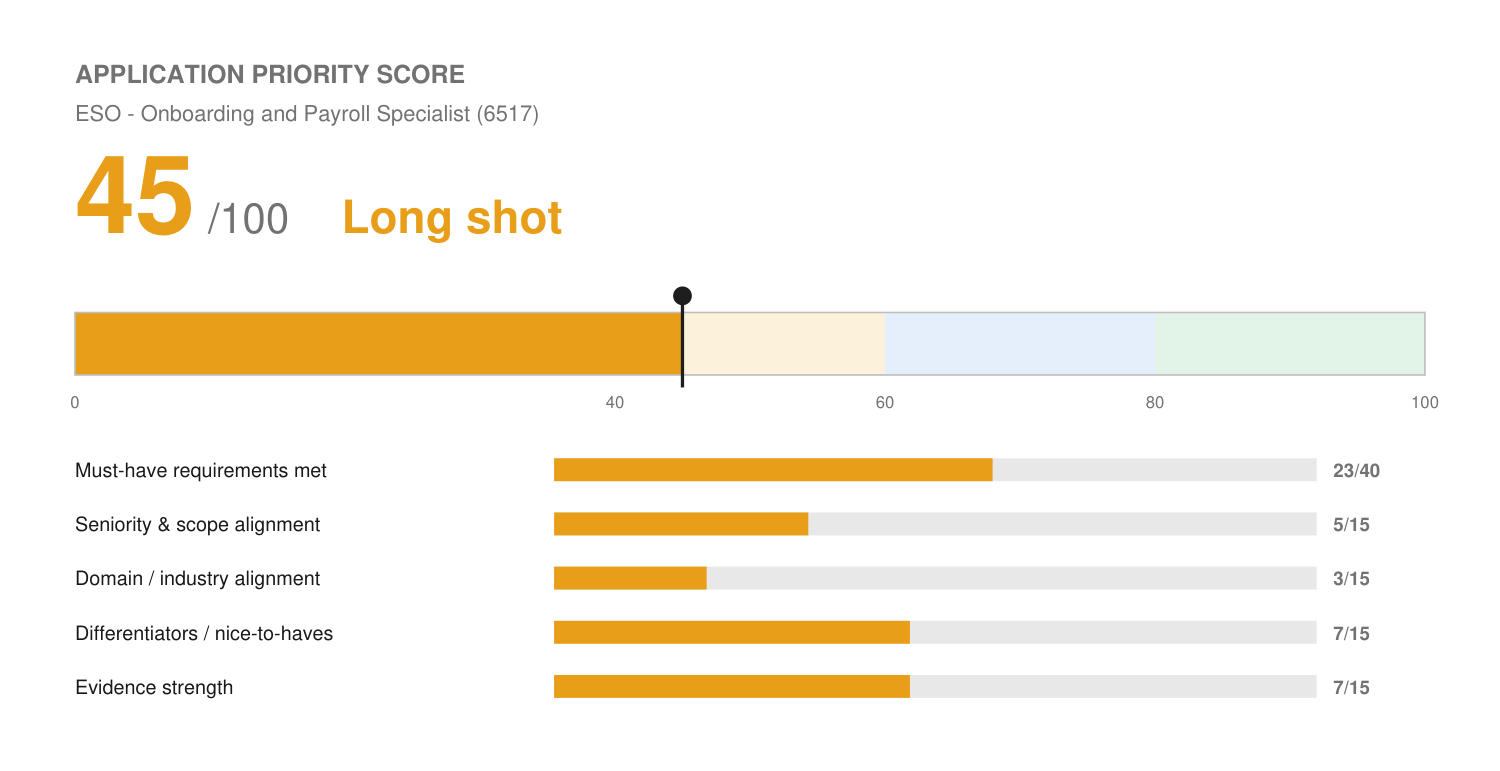
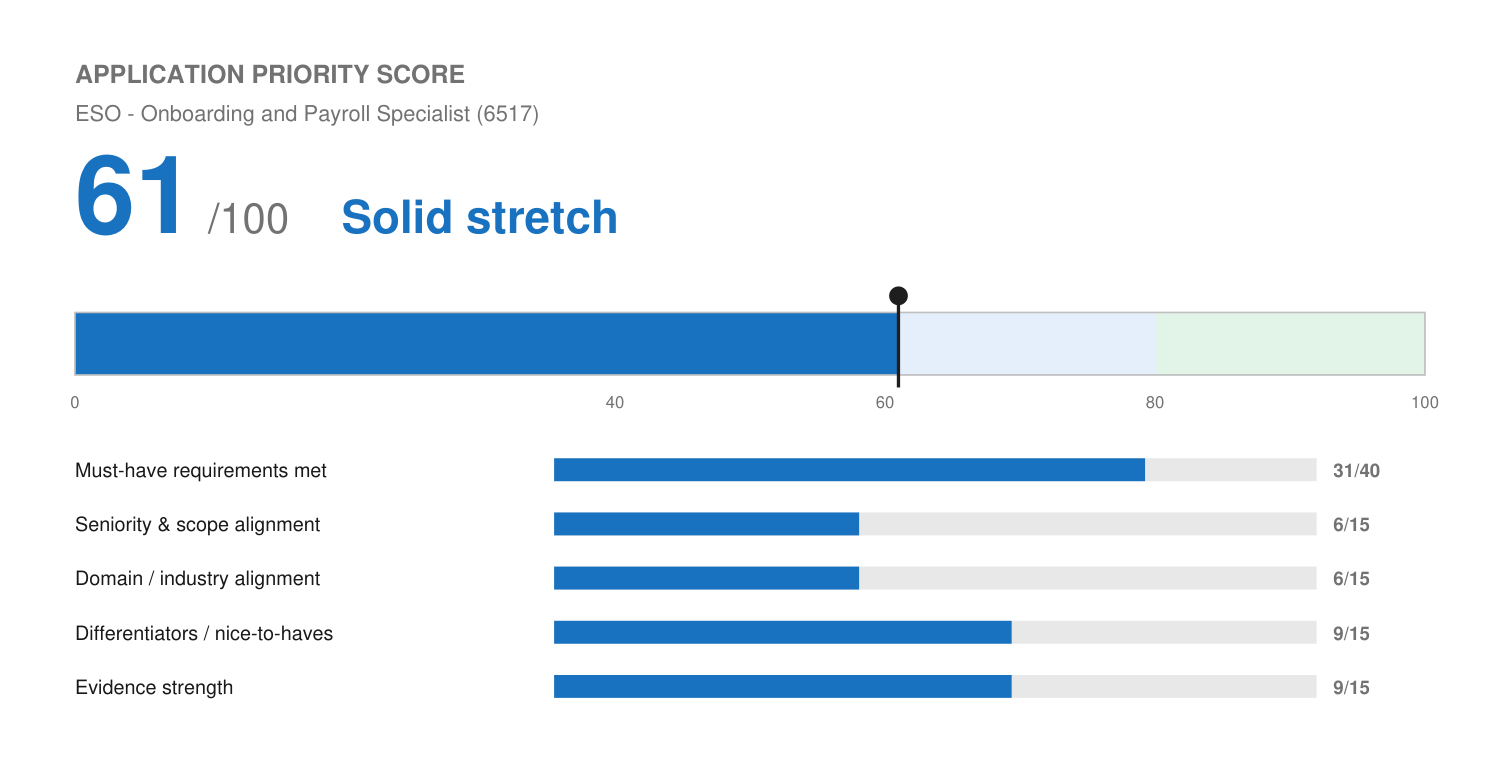
ESO Onboarding and Payroll Specialist: rescored 45 -> 61 after confirmations; profile adds new-hire paperwork, timesheet workflows, PTO approvals, bookkeeping, MS Office
Claude-Session: https://claude.ai/code/session_01Tym7Ffe6DkggR3nyAN5h24

diff --git a/profile/master-profile.md b/profile/master-profile.md
@@ -494,6 +494,7 @@ operator talking, not like a candidate performing.
 - Carried a combined sales and implementation load in year two, after the role expanded from a primarily sales focus in year one.
 - Directly managed and developed a team of onboarding specialists for **2 years — a team of 20, later a team of 8** — overseeing budgets, scope, and delivery for a high-value client portfolio. *(Scale and duration confirmed by Josh, Aug 2026.)*
 - Labeled and defined the CRM fields required for outbound sales and onboarding workflows, standardizing data capture across the team. *(Confirmed by Josh, Sep 2026.)*
+- Approved team members' hours, PTO, and schedules as team lead. *(Confirmed by Josh, Sep 2026.)*
 - Led digital growth consultations aligning site architecture, inbound marketing, and SEO best practices to improve client traffic and conversion, including connecting and setting up clients' Google Business Profile alongside their site build. *(Confirmed by Josh, Sep 2026.)*
 - Managed a high-value account portfolio across diverse verticals, contributing to a **30% increase in website traffic** and **25% improvement in conversion rates** across the e-commerce segment.
 - Led onboarding and launch operations as team lead and primary strategic contact, delivering launches on time and accelerating time-to-value.
@@ -506,6 +507,7 @@ operator talking, not like a candidate performing.
 > through the present at Solenzo, not a skill that started recently.
 - Ranked **top three in sales** on a team that scaled from **8 to 15 reps**, holding that rank across all but the final few months of a **27-month tenure** (Apr 2018 - Jul 2020), while **quota roughly doubled** over the period.
 - Closed deals of **$20K and larger** later in tenure, mixed with a base of smaller wins.
+- Set up and walked clients through Accelo's time-tracking and timesheet-approval workflows during scoping and onboarding. *(Confirmed by Josh, Sep 2026.)*
 - Built sequenced implementation plans for incoming clients, ranking which systems to change and in what order, and handed them to the implementation team to execute against.
 - Sold and scoped complex CRM and project-management software to agencies and professional-services firms, with deep fluency in sales enablement, contact management, and pipeline automation.
 - Guided client onboarding, workflow design, and API integrations, building relationships with C-Suite executives as a trusted advisor on operational system design.
@@ -531,7 +533,14 @@ operator talking, not like a candidate performing.
 > customer-vendor-supplier systems, not retail merchandising, budtender training, or
 > field sales, keep that distinction honest against postings asking specifically for the
 > latter.
+> **New-hire paperwork and employee screening (confirmed by Josh, Sep 2026):** Josh
+> handled new-hire paperwork (I-9s, W-4s, new-hire forms) and employee background
+> checks / state badge requirements for dispensary staff. This is genuine employer-side
+> employee-onboarding compliance experience in a state-regulated business. It is **not**
+> payroll processing or benefits administration, which remain confirmed gaps (see the
+> knockouts block at the top); keep the two distinct.
 - Built compliance and customer-management systems from scratch in a licensed cannabis dispensary.
+- Managed new-hire paperwork (I-9s, W-4s, new-hire forms) and employee background checks and state badge requirements for dispensary staff.
 - Developed early operational infrastructure — intake processes and reporting systems — scaling the business to profitability.
 - Built customer service, vendor, and supplier workflows from the ground up.
 
@@ -575,6 +584,7 @@ operator talking, not like a candidate performing.
 | Sales & Account Management | Full-cycle Sales, Pipeline Management, Pipeline Stage Tracking & Forecast Hygiene, C-Suite Relationship Building, Strategic Advisory, Account Expansion |
 | Operations & Systems | Process Mapping, SOP Development, Workflow Decomposition, Project Management, Cross-functional Coordination |
 | Content & Writing | Thought Leadership, Direct Response Copy, Technical Translation, Brand Voice, Editorial Management |
+| Office & Finance Basics | Microsoft Word, Outlook, Excel (experienced); Basic bookkeeping, reconciliation, AP/AR *(confirmed by Josh, Sep 2026; which role(s) not yet captured, ask before writing a role-specific bullet)* |
 | Tools & Platforms | GoHighLevel, HubSpot, Salesforce, Notion, Slack, Asana, Monday.com, Jira, Zendesk, ClickUp, Screaming Frog, Google Apps, Procore |
 
 > **Excel, Power BI, SQL, Python/JS (confirmed by Josh, Sep 2026, updated Sep 2026):**

diff --git a/applications/eso-onboarding-payroll-specialist/match-report.md b/applications/eso-onboarding-payroll-specialist/match-report.md
@@ -7,6 +7,37 @@
 - **Link:** https://eso.workgr8.com/jobs/6517/onboarding-and-payroll-specialist
 - **Date evaluated:** 2026-09-28
 
+## Rescore (Sep 28, 2026): 45 → 61 after Josh's confirmations
+
+Josh confirmed five facts in-session, all now in `profile/master-profile.md`:
+1. Standing Akimbo: handled new-hire paperwork (I-9s, W-4s, new-hire forms) and employee background checks / state badge requirements.
+2. Accelo: set up and walked clients through time-tracking and timesheet-approval workflows.
+3. Wix: approved team hours, PTO, and schedules as team lead.
+4. Basic bookkeeping, reconciliation, AP/AR (role attribution not yet captured).
+5. Proficient in Microsoft Word and Outlook.
+
+```
+🔵 Application Priority Score: 61 / 100 — Solid stretch
+[████████████░░░░░░░░]  61%
+```
+
+| Dimension | Before | After | Why it moved |
+| :--- | :--- | :--- | :--- |
+| Must-have requirements met | 23 | 31 / 40 | Employee onboarding paperwork and background checks now evidenced; timecard handling adjacent (approvals + timesheet workflow setup); basic accounting and MS Office met; 2 years personnel experience met (Akimbo + Wix). **Payroll processing itself is still a confirmed gap.** |
+| Seniority & scope alignment | 5 | 6 / 15 | Still heavily overqualified for a non-exempt specialist role. Structural, no rewrite fixes it. |
+| Domain / industry alignment | 3 | 6 / 15 | Employer-side new-hire compliance in a state-regulated business. Still no staffing or payroll-operations background. |
+| Differentiators / nice-to-haves | 7 | 9 / 15 | Compliance systems built from scratch, Excel + automation. |
+| Evidence strength | 7 | 9 / 15 | Direct I-9/W-4/background-check handling, but 2010-2012 and unquantified. |
+| **Total** | **45** | **61 / 100** | **Solid stretch (bottom of band).** |
+
+**Ceiling:** about 61 is as high as it goes honestly. The remaining points are payroll processing (~40% of the job, confirmed never done), VMS/ERP systems, and the overqualification mismatch.
+
+Resume rebuilt: one page, classic, now includes Standing Akimbo, Fivestars, and Senior Directory so the timeline is continuous back to 2010.
+
+---
+
+## Original evaluation (45)
+
 ## Application-Form and Eligibility Check
 
 | Item | Classification | Status |
@@ -16,8 +47,8 @@
 | Pay expectation | Application-form requirement | Posted max $22.69/hr (~$47K) is about 37% below the $75K floor anchor. Josh's call whether that's acceptable; if applying, answer within the posted range. |
 | Remote US, Mon-Fri daytime | Application-form requirement | Pass. |
 | Work authorization / E-Verify | Application-form requirement | Pass. U.S. citizen. |
-| Basic accounting knowledge | Needs candidate confirmation | Not documented in profile. |
-| MS Word / Outlook proficiency | Needs candidate confirmation | Excel is confirmed experienced; Word/Outlook not documented (left off the resume until confirmed). |
+| Basic accounting knowledge | Resume-evidenced | Confirmed Sep 28 (see rescore). |
+| MS Word / Outlook proficiency | Resume-evidenced | Confirmed Sep 28. |
 | Enterprise Resource Program (ERP) / VMS timecard systems | Resume-evidenced | Gap. No ERP or vendor-management-system experience on file. |
 
 No hard knockout. Built per the core rule.
